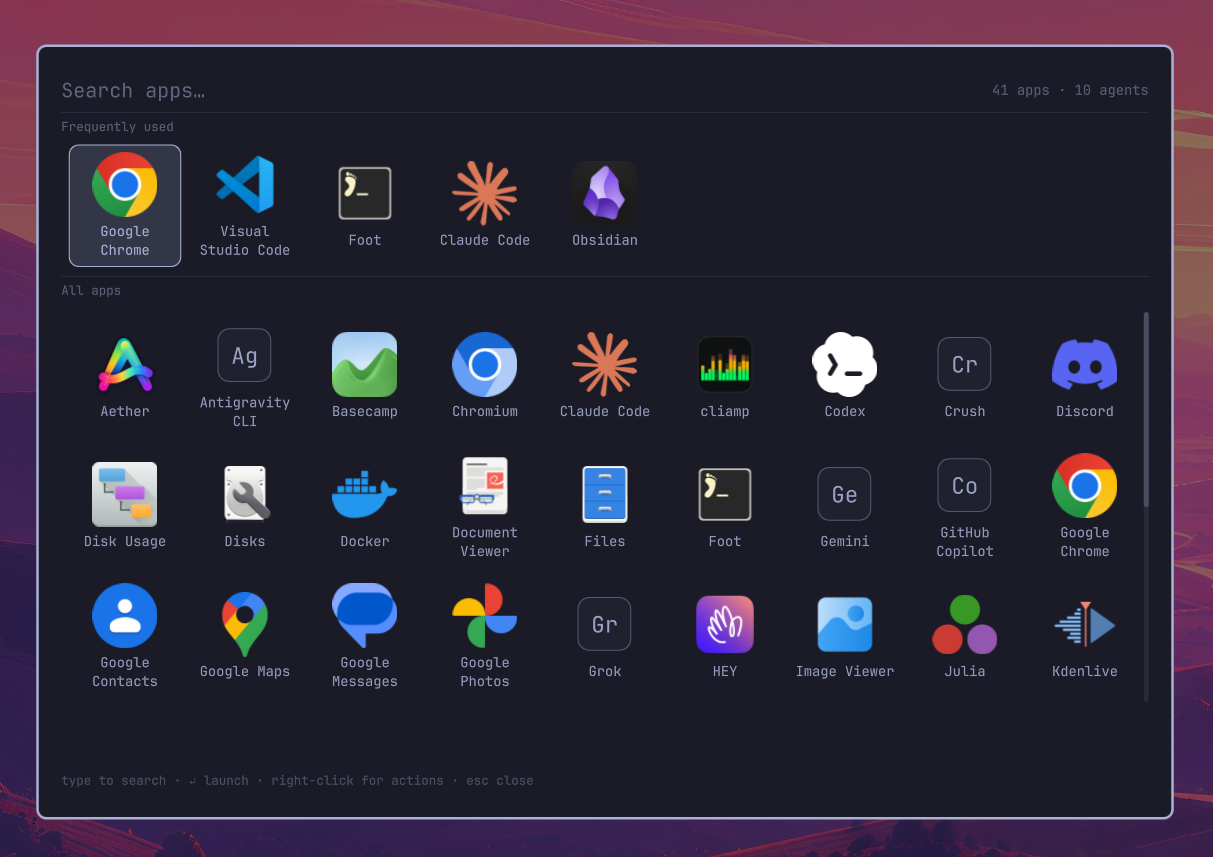
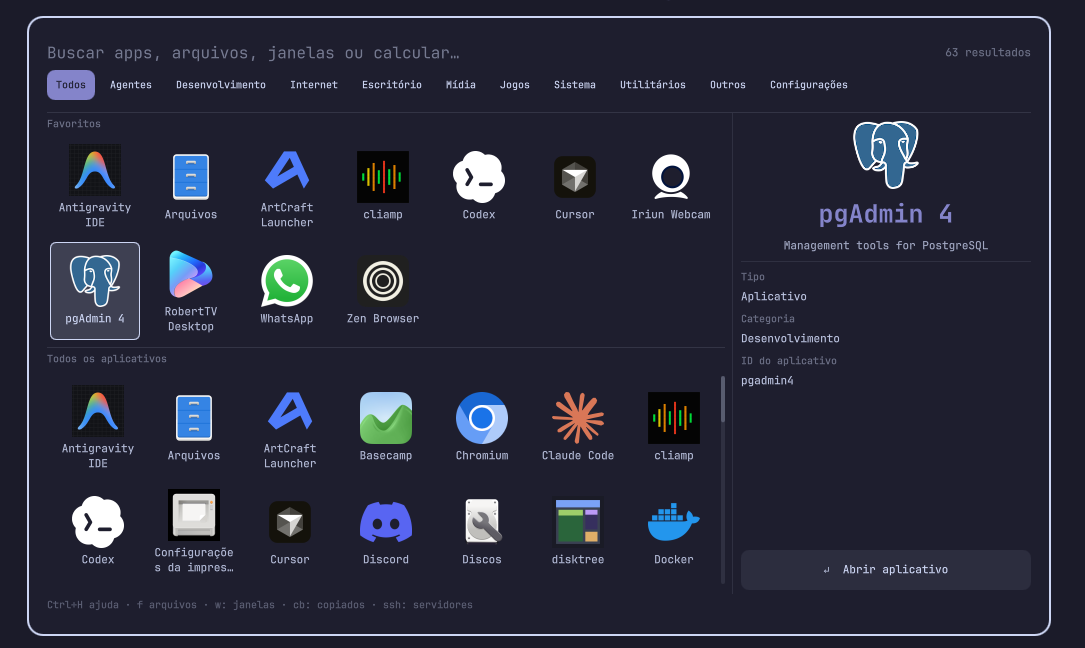
docs: atualiza prévia do Launcher Plus e apresenta Elsewhen em PT-BR

diff --git a/docs/ELSEWHEN-PTBR.md b/docs/ELSEWHEN-PTBR.md
@@ -1,0 +1,30 @@
+# Elsewhen — relógio mundial em português brasileiro
+
+![Elsewhen nativo em português brasileiro](images/elsewhen-ptbr.png)
+
+O relógio mundial da imagem é o **Elsewhen oficial**, ID `omarchy.elsewhen`,
+autor Jason Fried, licença MIT. Ele já faz parte do Omarchy instalado; não é um
+novo clone comunitário e não tem um repositório PT-BR independente neste projeto.
+
+Na instalação conferida, seu manifest está em
+`/usr/share/omarchy/shell/plugins/panels/elsewhen/manifest.json` (versão 1.1.0).
+O código usa o catálogo nativo de traduções em
+`/usr/share/omarchy/default/i18n/pt-BR/shell.json`. As chaves `elsewhen.world`,
+`elsewhen.clock`, `elsewhen.hereIn` e `elsewhen.addCity` fornecem os textos da tela.
+O título com globo combina “Mundo” e “Relógio”; a dica do componente usa “Relógio mundial”.
+
+## Usar em PT-BR
+
+Em um Omarchy com esse catálogo instalado, siga o [modo nativo](MIGRACAO-NATIVA.md)
+do projeto. Ele seleciona `pt-BR` na shell e preserva as cidades e configurações existentes.
+O Elsewhen continua sendo o componente oficial `omarchy.elsewhen`; esta documentação
+não instala uma cópia dele nem altera arquivos em `/usr/share/omarchy`.
+
+A captura fornecida mostra São Paulo e Campo Grande como exemplo. Ela não inclui nem
+instala o arquivo pessoal de cidades; cada usuário mantém sua própria configuração.
+O código e a tradução nativa são mantidos pelo Omarchy. Atualizar este repositório de
+plugins comunitários não cria um selo de marketplace separado para o Elsewhen.
+
+## Fonte pública da tradução
+
+O catálogo PT-BR está disponível no [repositório oficial do Omarchy, branch quattro](https://github.com/omacom/omarchy/blob/quattro/default/i18n/pt-BR/shell.json). Foram confirmadas 29 chaves `elsewhen.*`, incluindo os textos exibidos na captura. Para usar a mesma versão, é necessário um Omarchy com suporte ao catálogo nativo; o pacote local conferido é 4.5.0.

diff --git a/plugins/robertlindomar.omarchy-ptbr.launcher-plus/README.md b/plugins/robertlindomar.omarchy-ptbr.launcher-plus/README.md
@@ -2,6 +2,26 @@
 
 Esta é uma tradução comunitária não oficial. O código e os créditos originais estão preservados; veja `LICENSE` e a documentação abaixo. Publicação no GitHub não representa aprovação ou selo Verified do marketplace.
 
+## Prévia e atalho
+
+![Launcher Plus em português brasileiro](preview.png)
+
+A imagem mostra este plugin, `robertlindomar.omarchy-ptbr.launcher-plus`, com busca de
+aplicativos, arquivos e janelas e painel de detalhes. Ele é diferente do plugin
+`robertlindomar.omarchy-ptbr.app-launcher`, que mantém o lançador anterior com favoritos.
+A lista de aplicativos e favoritos da captura é ilustrativa e não é distribuída como configuração.
+
+Para abrir este Launcher Plus com `SUPER + SPACE`, adicione manualmente em
+`~/.config/hypr/bindings.lua`:
+
+```lua
+hl.unbind("SUPER + SPACE")
+o.bind("SUPER + SPACE", "Launcher Plus", "omarchy-shell shell toggle robertlindomar.omarchy-ptbr.launcher-plus '{}'")
+```
+
+Isso substitui a atribuição anterior desse atalho. O instalador nativo preserva a escolha
+existente; instalar apenas o plugin não aplica o atalho automaticamente.
+
 ## Instalar este clone PT-BR
 
 ```bash

diff --git a/plugins/robertlindomar.omarchy-ptbr.app-launcher/README.md b/plugins/robertlindomar.omarchy-ptbr.app-launcher/README.md
@@ -1,3 +1,13 @@
+## Qual lançador escolher?
+
+Este repositório mantém o **App Launcher com favoritos**. A interface com a busca
+“Buscar apps, arquivos, janelas ou calcular…” é o **Launcher Plus**, disponível em
+[omarchy-ptbr-launcher-plus](https://github.com/robertlindomar/omarchy-ptbr-launcher-plus).
+Para usar a interface da imagem abaixo e o atalho `SUPER + SPACE`, siga as instruções
+desse outro repositório; instalar este App Launcher não o transforma no Launcher Plus.
+
+![Launcher Plus — disponível no repositório indicado acima](https://raw.githubusercontent.com/robertlindomar/omarchy-ptbr-launcher-plus/main/preview.png)
+
 # Instalação independente — robertlindomar.omarchy-ptbr.app-launcher
 
 Esta é uma tradução comunitária não oficial. O código e os créditos originais estão preservados; veja `LICENSE` e a documentação abaixo. Publicação no GitHub não representa aprovação ou selo Verified do marketplace.

diff --git a/README.md b/README.md
@@ -17,6 +17,7 @@ preserva o layout e arquiva overrides antigos conhecidos com backup.
 ```
 
 Veja [a migração completa, a ordem dos lotes e os backups](docs/MIGRACAO-NATIVA.md).
+O [relógio mundial Elsewhen em português](docs/ELSEWHEN-PTBR.md) também está documentado, com imagem e instruções de ativação.
 HODL e Launcher Plus também estão disponíveis em PT-BR. Favoritos e carteiras
 permanecem nos caminhos existentes; nenhum dado pessoal é incluído no repo.
 `--legacy` seleciona os clones antigos. As tabelas e instruções abaixo documentam

diff --git a/docs/MIGRACAO-NATIVA.md b/docs/MIGRACAO-NATIVA.md
@@ -7,6 +7,7 @@ o locale global do sistema e o idioma de aplicativos já abertos não são alter
 ## Ordem de execução e resultado
 
 1. Idioma, Elsewhen e demais componentes oficiais: PT-BR ativado.
+   Veja a [prévia e a origem do relógio mundial Elsewhen](ELSEWHEN-PTBR.md).
 2. Relógio e indicadores: migrados, preservando formato, posição e itens fixados.
 3. Áudio, Bluetooth, rede, energia, clima, monitor, testes de velocidade e lembretes: migrados.
 4. Clipboard, polkit e menu: migrados para as implementações oficiais atuais.
